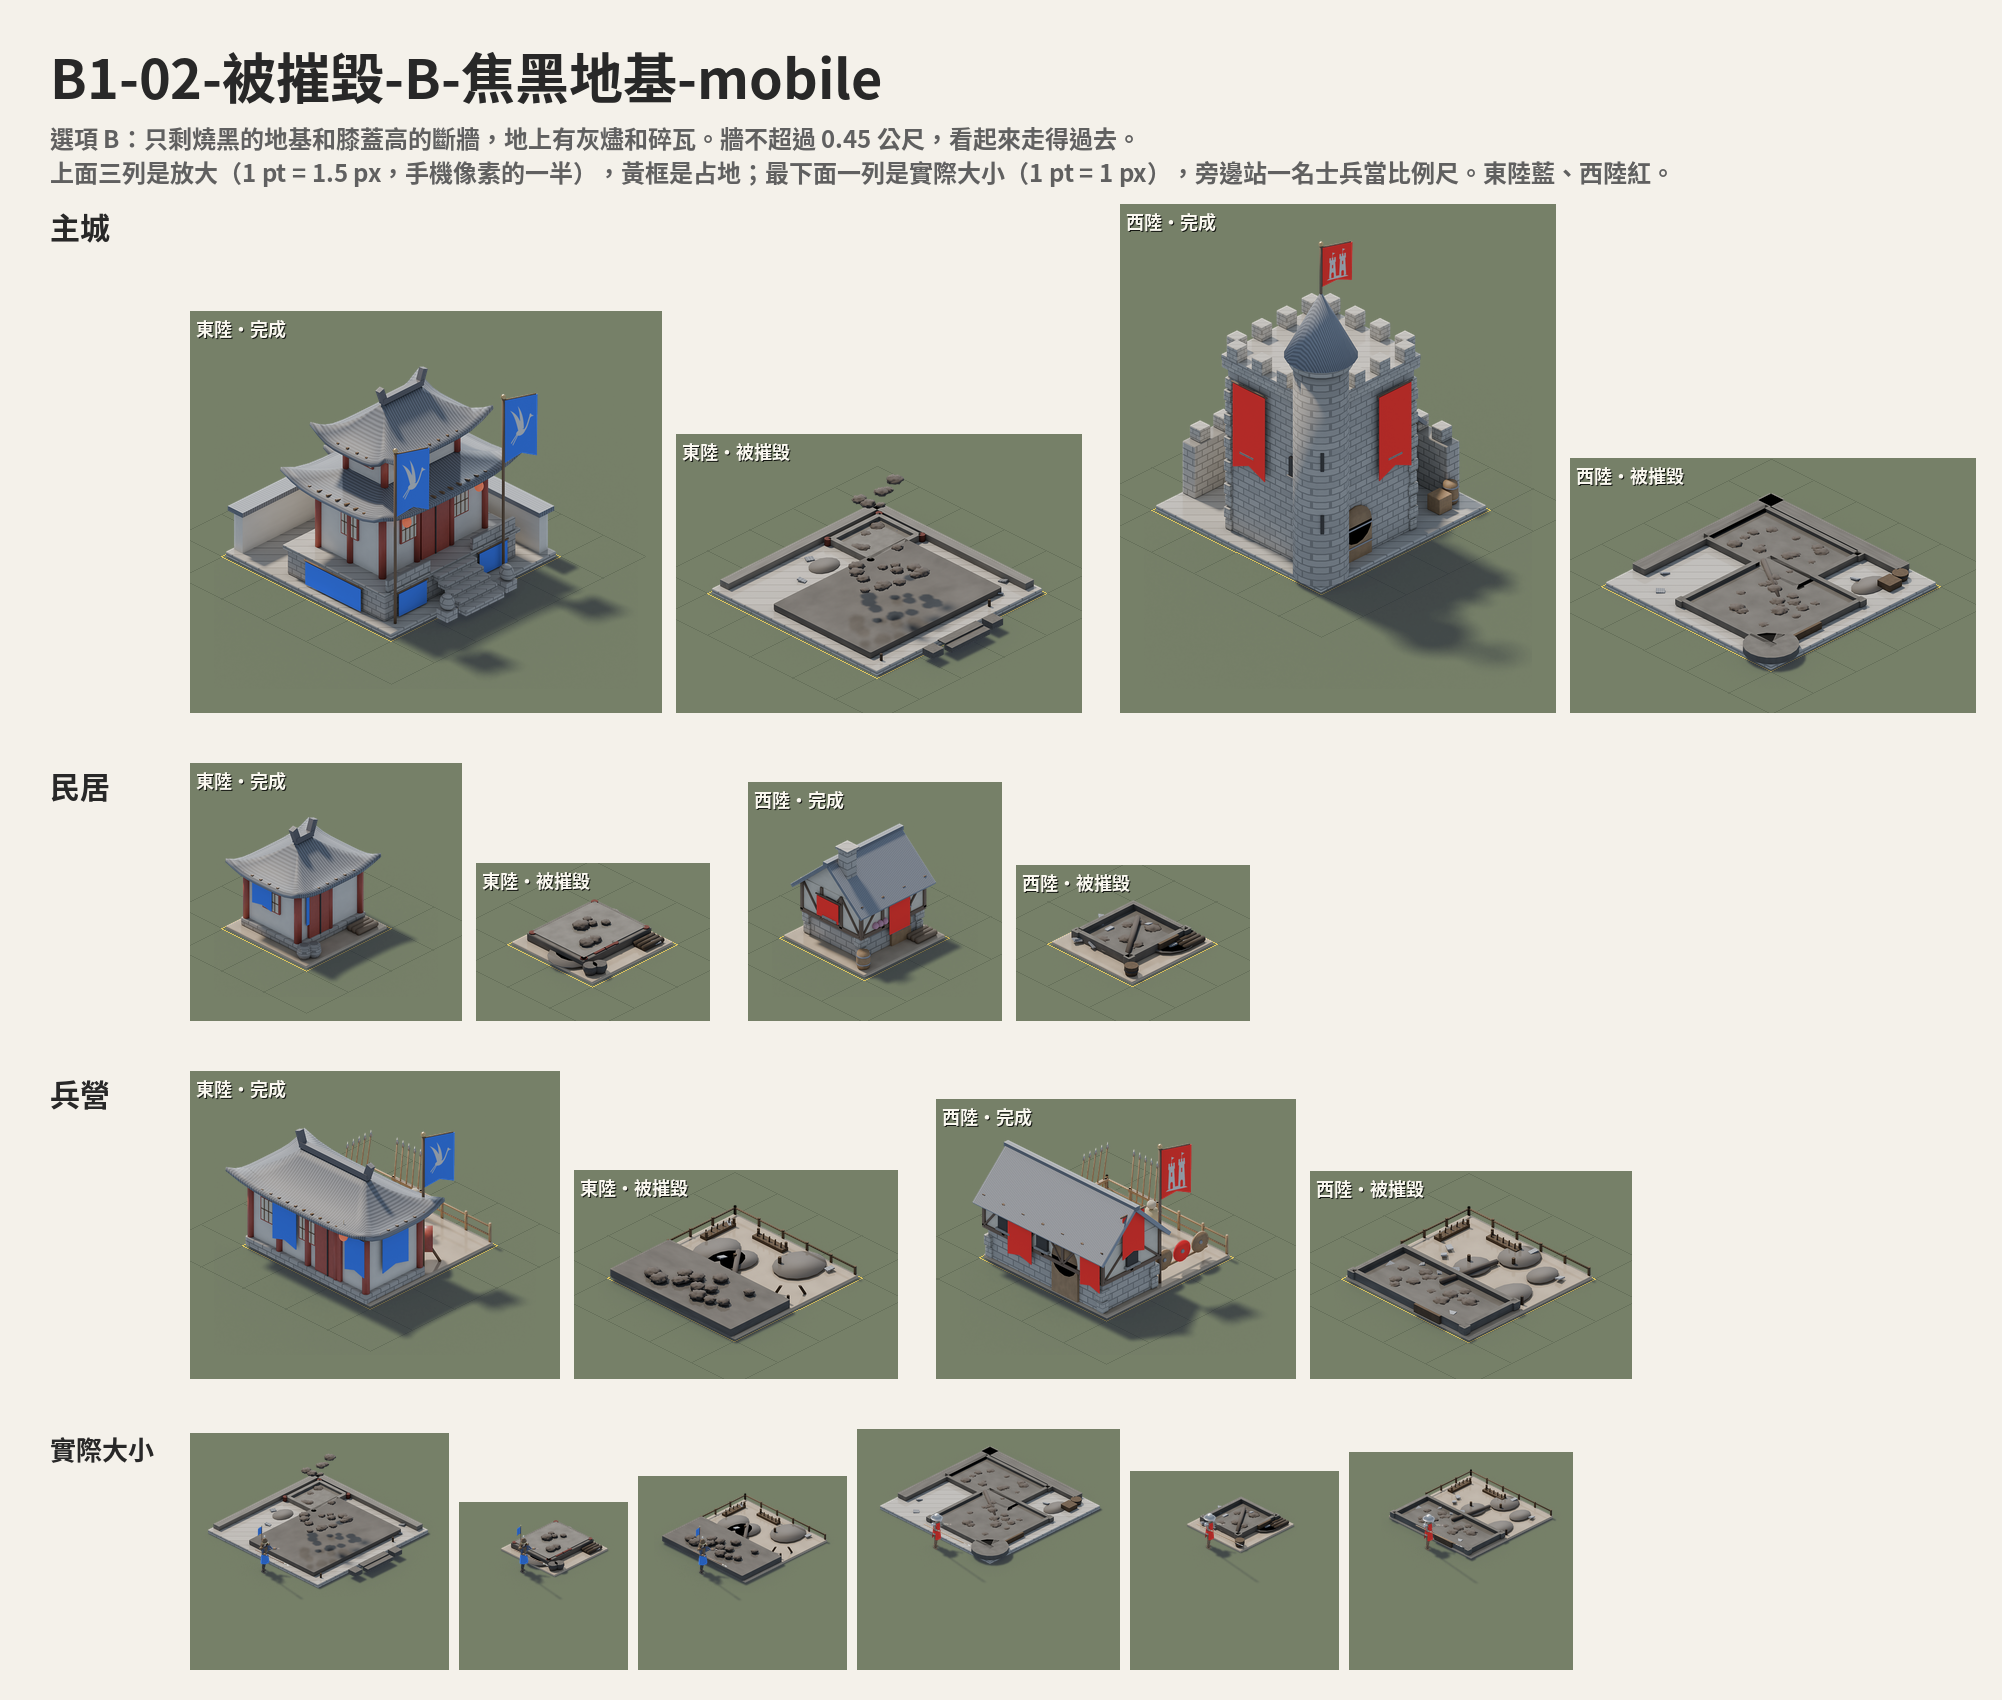
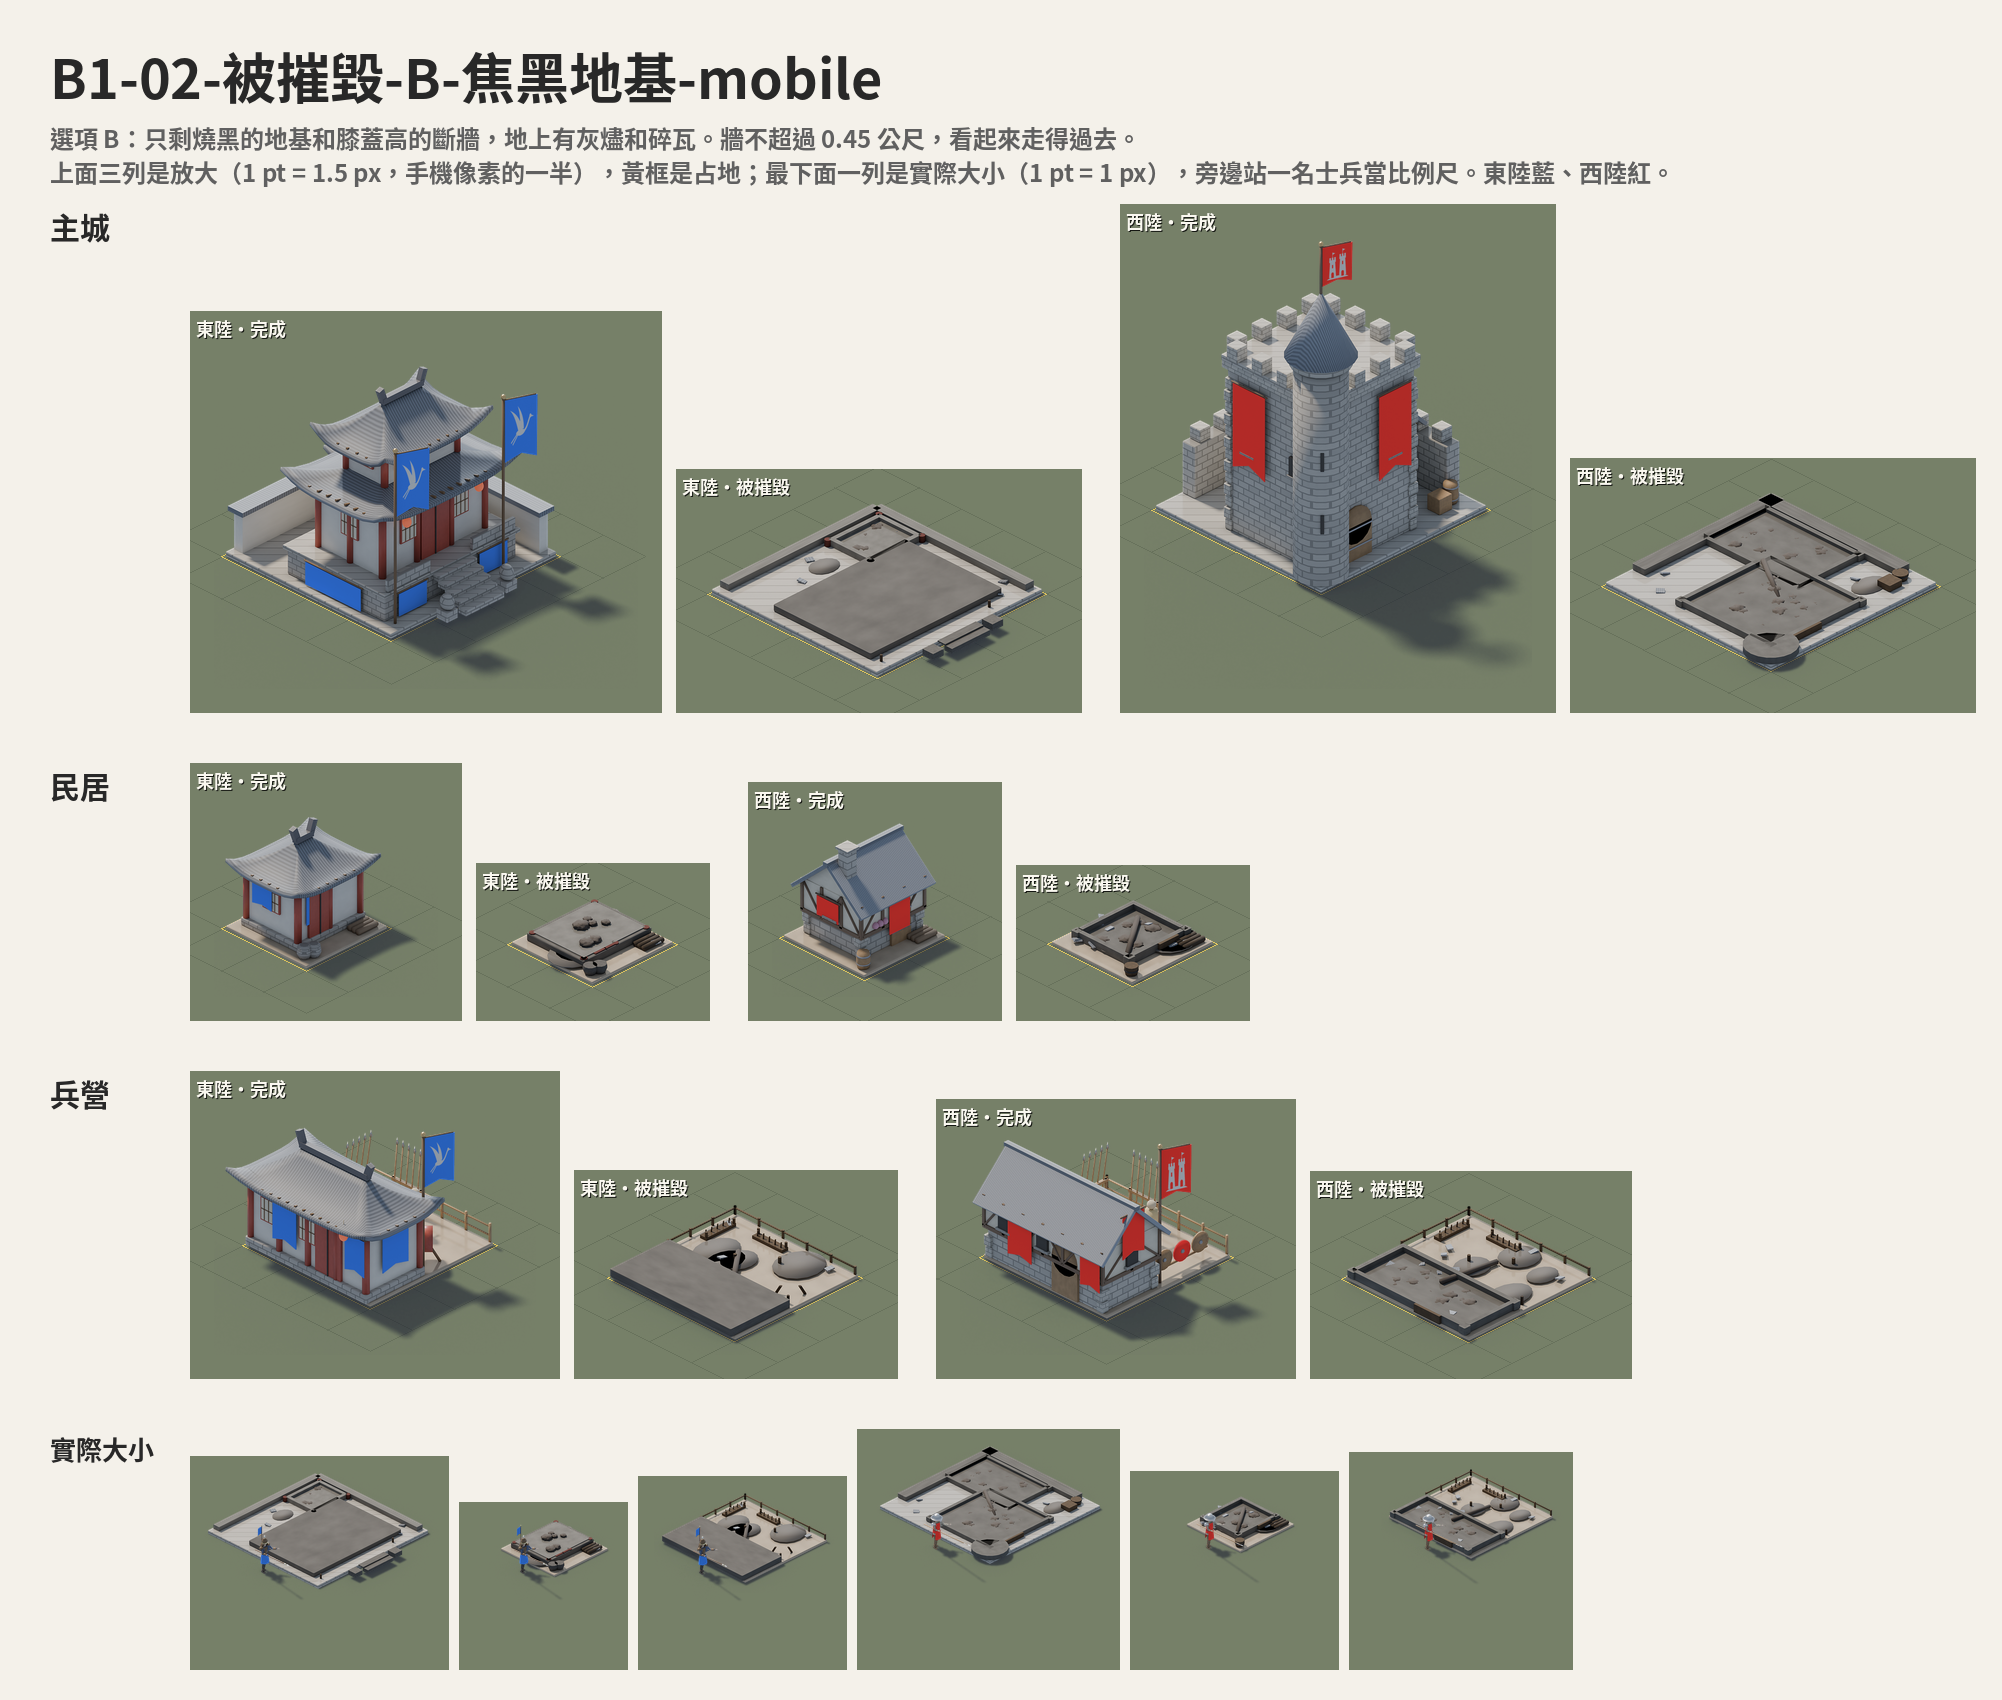
B1：被摧毀 B 台基上的大殿碎塊落在切開的台基面上

diff --git a/design/b1/blender/states.py b/design/b1/blender/states.py
@@ -538,8 +538,7 @@ def apply(root, kind, c, state, **opts):
         rnd2 = random.Random(seed + 2)
         for g, (cx, cy, bw, bd, z0, wh) in blocks:
             o = g.matrix_world.translation
-            if o.z >= KNEE - 0.05:                  # an upper storey: nothing of it is left at knee height
-                continue
+            # a hall on a platform (or an upper storey) falls onto the cut platform: its debris lies at knee height
             for i in range(int(bw * bd)):
                 B1.lumpy(f"ds_deb{len(blocks)}_{i}_{int(o.x * 10)}", rnd2.uniform(0.15, 0.3), P["char"], root,
                          (o.x + rnd2.uniform(-bw / 3, bw / 3), o.y + rnd2.uniform(-bd / 3, bd / 3), min(o.z, KNEE) + 0.05),
